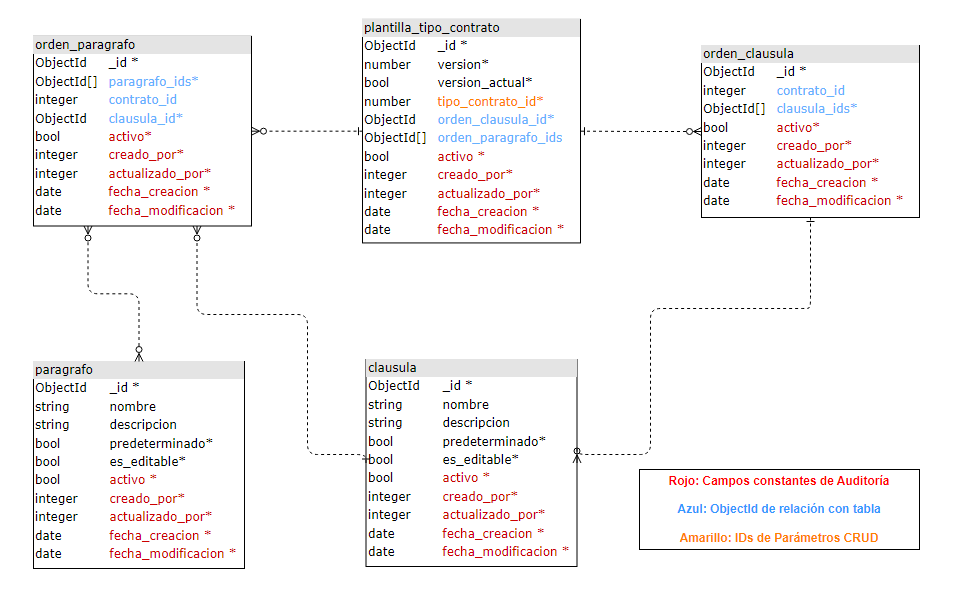
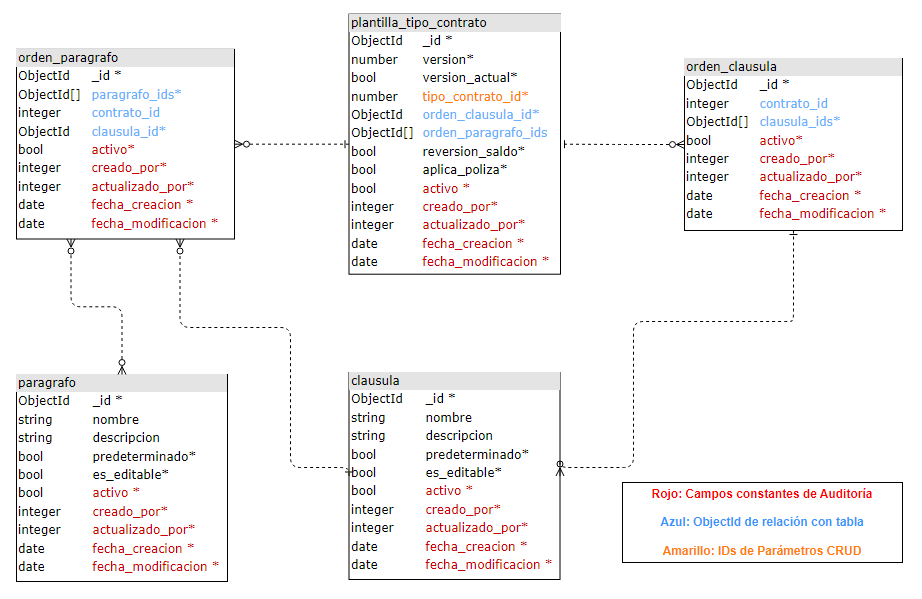
feat: Ajustes campo nuevo aplica poliza udistrital/argo_documentacion#196

diff --git a/src/plantilla_tipo_contrato/plantilla_tipo_contrato.service.ts b/src/plantilla_tipo_contrato/plantilla_tipo_contrato.service.ts
@@ -195,16 +195,34 @@ export class PlantillaTipoContratoService {
     filtersDto?: FilterDto,
   ): Promise<any> {
     try {
+      interface FilterQueryObject {
+        [key: string]: any;
+      }
+      
+      const BOOLEAN_FIELDS = ['reversion_saldo', 'aplica_poliza'] as const;
+      
+      const processBooleanFields = (obj: FilterQueryObject, booleanFields: readonly string[]) => {
+        return {
+          ...obj,
+          ...Object.fromEntries(
+            Object.entries(obj)
+              .filter(([key]) => booleanFields.includes(key))
+              .map(([key, value]) => [key, Boolean(value === 'true')])
+          )
+        };
+      };
+      
       const { queryObject } = filtersDto
         ? this.filtersService.createObjects(filtersDto)
-        : { queryObject: {} };
-      const processedQueryObject = 'reversion_saldo' in queryObject
-        ? { ...queryObject, reversion_saldo: Boolean(queryObject.reversion_saldo === 'true') }
-        : queryObject;
+        : { queryObject: {} as FilterQueryObject };
+      
+      const processedQueryObject = processBooleanFields(queryObject, BOOLEAN_FIELDS);
+      
       const combinedQuery = {
         ...processedQueryObject,
         tipo_contrato_id: tipoContratoId,
       };
+      
       const raw = await this.plantillaTipoContratoModel.aggregate([
         {
           $match: combinedQuery,

diff --git a/src/app.module.ts b/src/app.module.ts
@@ -19,7 +19,7 @@ import { ContratoModule } from './contrato/contrato.module';
     }),
     MongooseModule.forRootAsync({
       useFactory: async (configService : ConfigService) => ({
-        uri: `mongodb://${configService.get('DB_HOST')}:${configService.get('DB_PORT')}/${configService.get('DB_NAME')}`
+        uri: `mongodb+srv://${configService.get('DB_USERNAME')}:${configService.get('DB_PASSWORD')}@${configService.get('DB_HOST')}/${configService.get('DB_NAME')}`
       }),
       inject: [ConfigService]
     }),

diff --git a/src/plantilla_tipo_contrato/schemas/plantilla_tipo_contrato.schema.ts b/src/plantilla_tipo_contrato/schemas/plantilla_tipo_contrato.schema.ts
@@ -27,6 +27,9 @@ export class PlantillaTipoContrato extends Document {
   reversion_saldo: boolean;
 
   @Prop({ required: true })
+  aplica_poliza: boolean;
+
+  @Prop({ required: true })
   activo: boolean;
 
   @Prop({required: true})

diff --git a/src/plantilla_tipo_contrato/dto/create-plantilla_tipo_contrato.dto.ts b/src/plantilla_tipo_contrato/dto/create-plantilla_tipo_contrato.dto.ts
@@ -31,6 +31,11 @@ export class CreatePlantillaTipoContratoDto {
 
   @ApiProperty()
   @IsNotEmpty()
+  @IsBoolean()
+  aplica_poliza: boolean;
+
+  @ApiProperty()
+  @IsNotEmpty()
   @IsNumber()
   actualizado_por: Number;
 

diff --git a/README.md b/README.md
@@ -15,8 +15,9 @@ API CRUD desarrollada en NestJS para la gestión de base de datos no relacional 
 ## Variables de Entorno
 
 ```shell
+DB_USERNAME=CLAUSUAS_PARAGRAFOS_USERNAME
+DB_PASSWORD=CLAUSUAS_PARAGRAFOS_PASSWORD
 DB_HOST=CLAUSUAS_PARAGRAFOS_HOST
-DB_PORT=CLAUSUAS_PARAGRAFOS_PORT
 DB_NAME=CLAUSUAS_PARAGRAFOS_NAME
 ```
 
